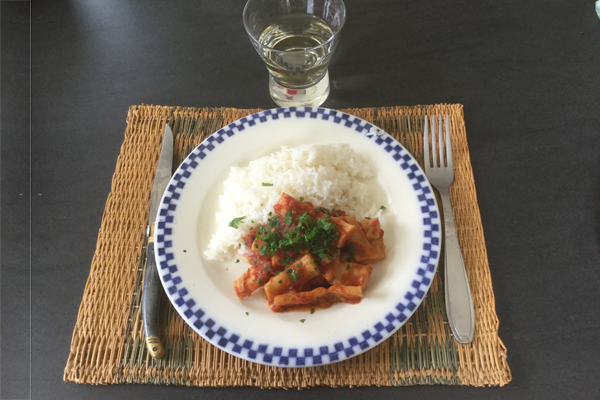
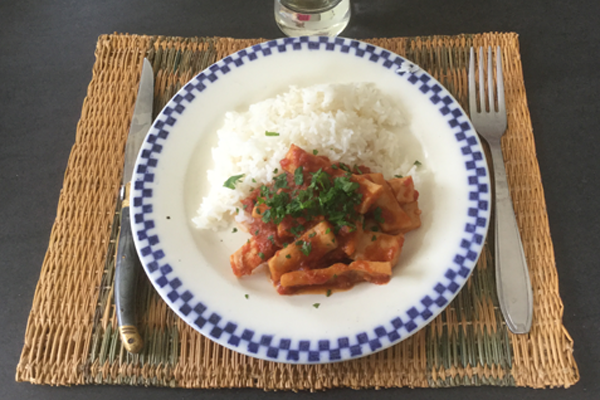
recadrage photo
idem

diff --git a/_posts/2020-05-22-tarte-abricots-amandes.md b/_posts/2020-05-22-tarte-abricots-amandes.md
@@ -30,7 +30,7 @@ Dès que les fruits d'été ré-apparaissent, la tarte aux abricots et amandes v
 * Cuire au four pendant 30 mn.
 
 ### Vins
-* Vins blancs : Alsace Grand Cru Kaefferkopf (Domaine Léon Baur, Cœur de Grain), Sauternes (Château Haut-Bergeron), Tokay (Domaine Diznoko, Tokaji Aozu).
+* Vin blanc : Alsace Grand Cru Kaefferkopf (Domaine Léon Baur, Cœur de Grain), Sauternes (Château Haut-Bergeron), Tokay (Domaine Diznoko, Tokaji Aozu).
 
 ### Notes
 * Le fond de tarte peut se faire avec une fine pâte brisée suivant la recette de Hahn Faucheu. Celle-ci est décrite pour la tarte au citron.

diff --git a/_posts/2020-03-30-poelee-bettes.md b/_posts/2020-03-30-poelee-bettes.md
@@ -28,7 +28,6 @@ Cette recette est excellente pour préparer les bettes. Elles peuvent être blan
 
 ### Vins
 * Vin blanc : Jasnières (Domaine de Cézin, Origine), Côte-de-Provence (Domaine Saint Victorin, Jacqueline).
-.
 
 ### Notes
 * Si le fromage blanc ne fait pas envie, on peut le remplacer par de la crème fraîche mais le goût acidulé du fromage se marie bien avec les bettes.

diff --git a/_posts/2020-04-24-tiramitsu.md b/_posts/2020-04-24-tiramitsu.md
@@ -39,5 +39,5 @@ Ce tiramitsu est une recette de Monique Salaün, une amie d'Orsay, qui, ne voyag
 
 
 ### Vins
-* Vins blanc doux : Macvin du Jura (Domaine de Savigny).
-* Vins rouge doux : Maury Tuilé	(Les Vignes d'Elodie).
+* Vin blanc doux : Macvin du Jura (Domaine de Savigny).
+* Vin rouge doux : Maury Tuilé	(Les Vignes d'Elodie).

diff --git a/_posts/2020-05-22-croustadeauxfruits.md b/_posts/2020-05-22-croustadeauxfruits.md
@@ -77,7 +77,7 @@ La croustade (le crumble en anglais) est un dessert typiquement québécois. Cet
 
 
 ### Vins
-* Vins blanc doux : Macvin du Jura (Domaine de Savigny), Maury (Les Vignes d'Elodie).
+* Vin blanc doux : Macvin du Jura (Domaine de Savigny), Maury (Les Vignes d'Elodie).
 
 
 ### Notes
